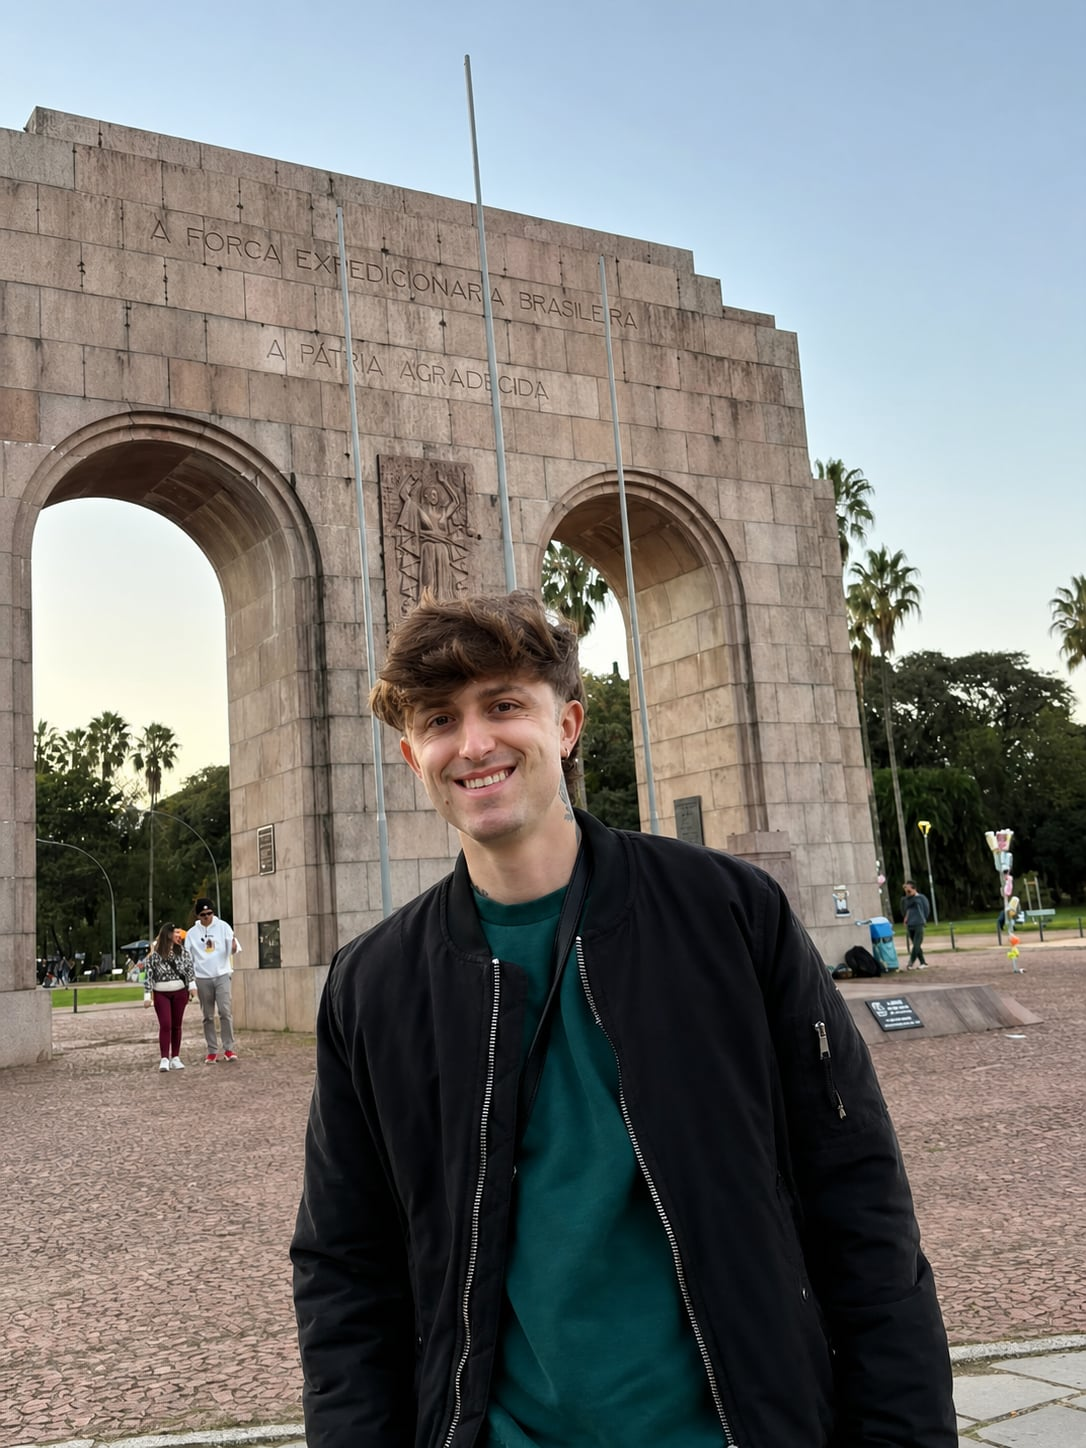
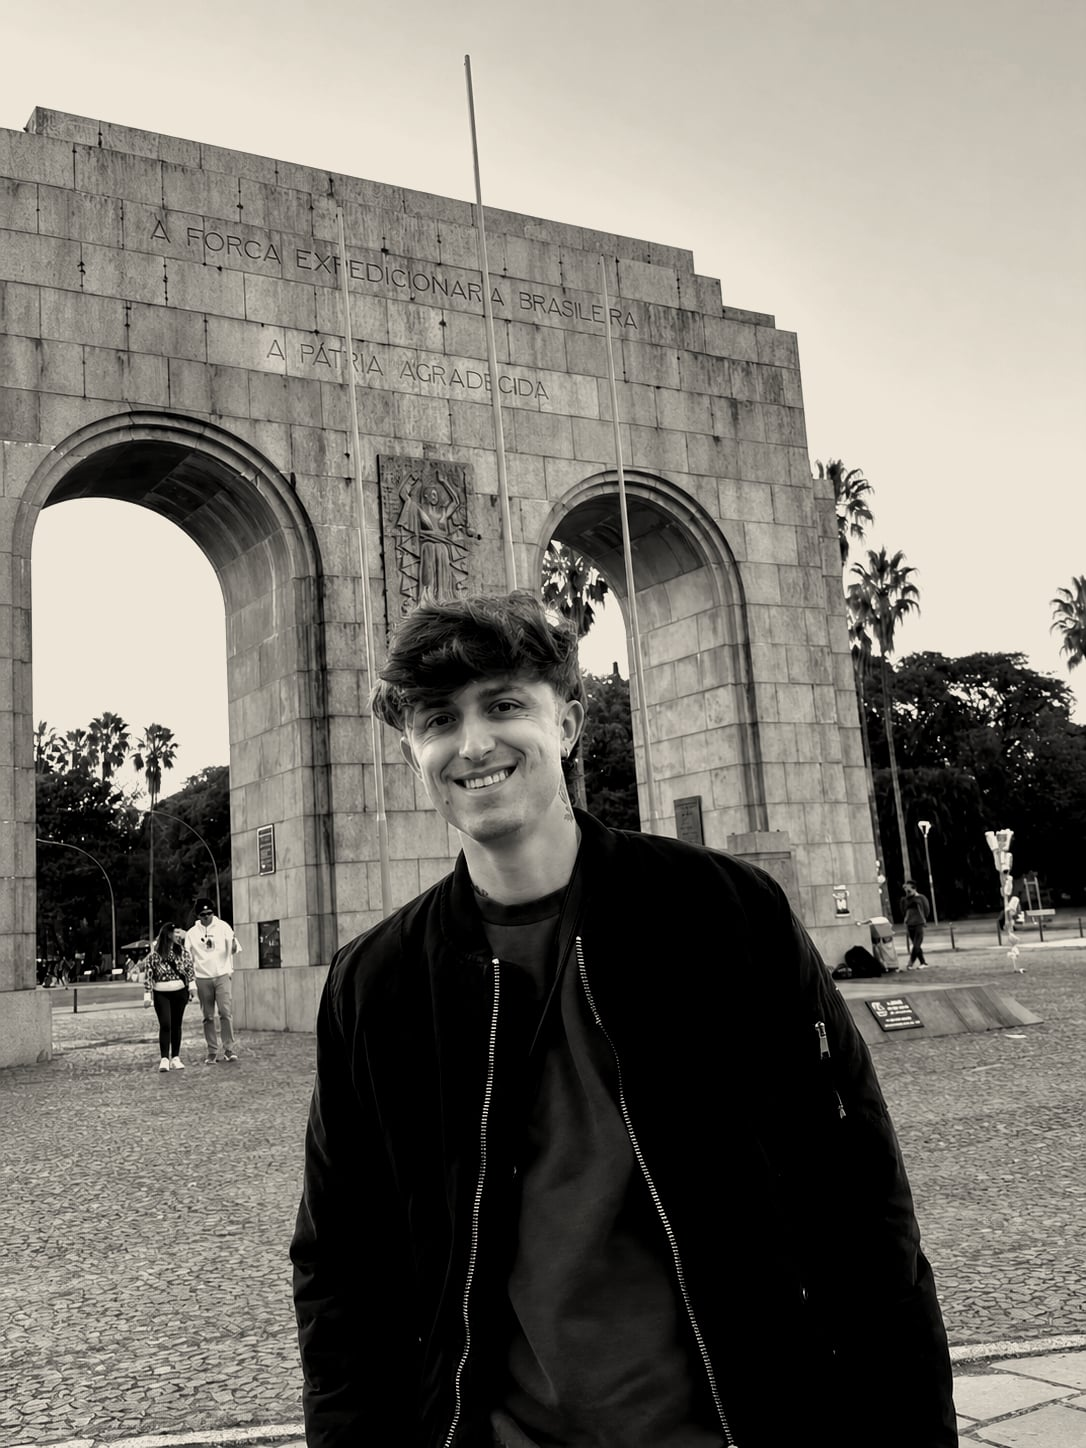
fix: photo

diff --git a/components/Scanner.tsx b/components/Scanner.tsx
@@ -88,19 +88,17 @@ export default function Scanner({ c, edition, reduce }: Props) {
       onPointerDown={track}
       className="relative aspect-[4/5] touch-none border border-ink select-none"
     >
-      <div className="absolute inset-0 grayscale contrast-125 brightness-105">
-        <Image
-          src={portrait}
-          alt="Christian Fonseca"
-          fill
-          preload
-          placeholder="blur"
-          sizes="(max-width: 767px) 100vw, 560px"
-          className="object-cover"
-        />
-      </div>
-      {/* Tinge a foto P&B com o tom do fundo: brancos viram bege, pretos se mantêm */}
-      <div aria-hidden="true" className="pointer-events-none absolute inset-0 bg-bg mix-blend-multiply" />
+      {/* P&B, contraste e tom bege (--bg) já vêm aplicados no arquivo — filtros/blend em CSS
+          faziam a foto não repintar no mobile até um scroll ou rescan */}
+      <Image
+        src={portrait}
+        alt="Christian Fonseca"
+        fill
+        preload
+        placeholder="blur"
+        sizes="(max-width: 767px) 100vw, 560px"
+        className="object-cover"
+      />
       <div aria-hidden="true" className="pointer-events-none absolute inset-0 bg-halftone opacity-[0.18]" />
 
       <div aria-hidden="true" className="pointer-events-none absolute inset-0 grid grid-cols-10 grid-rows-12">
